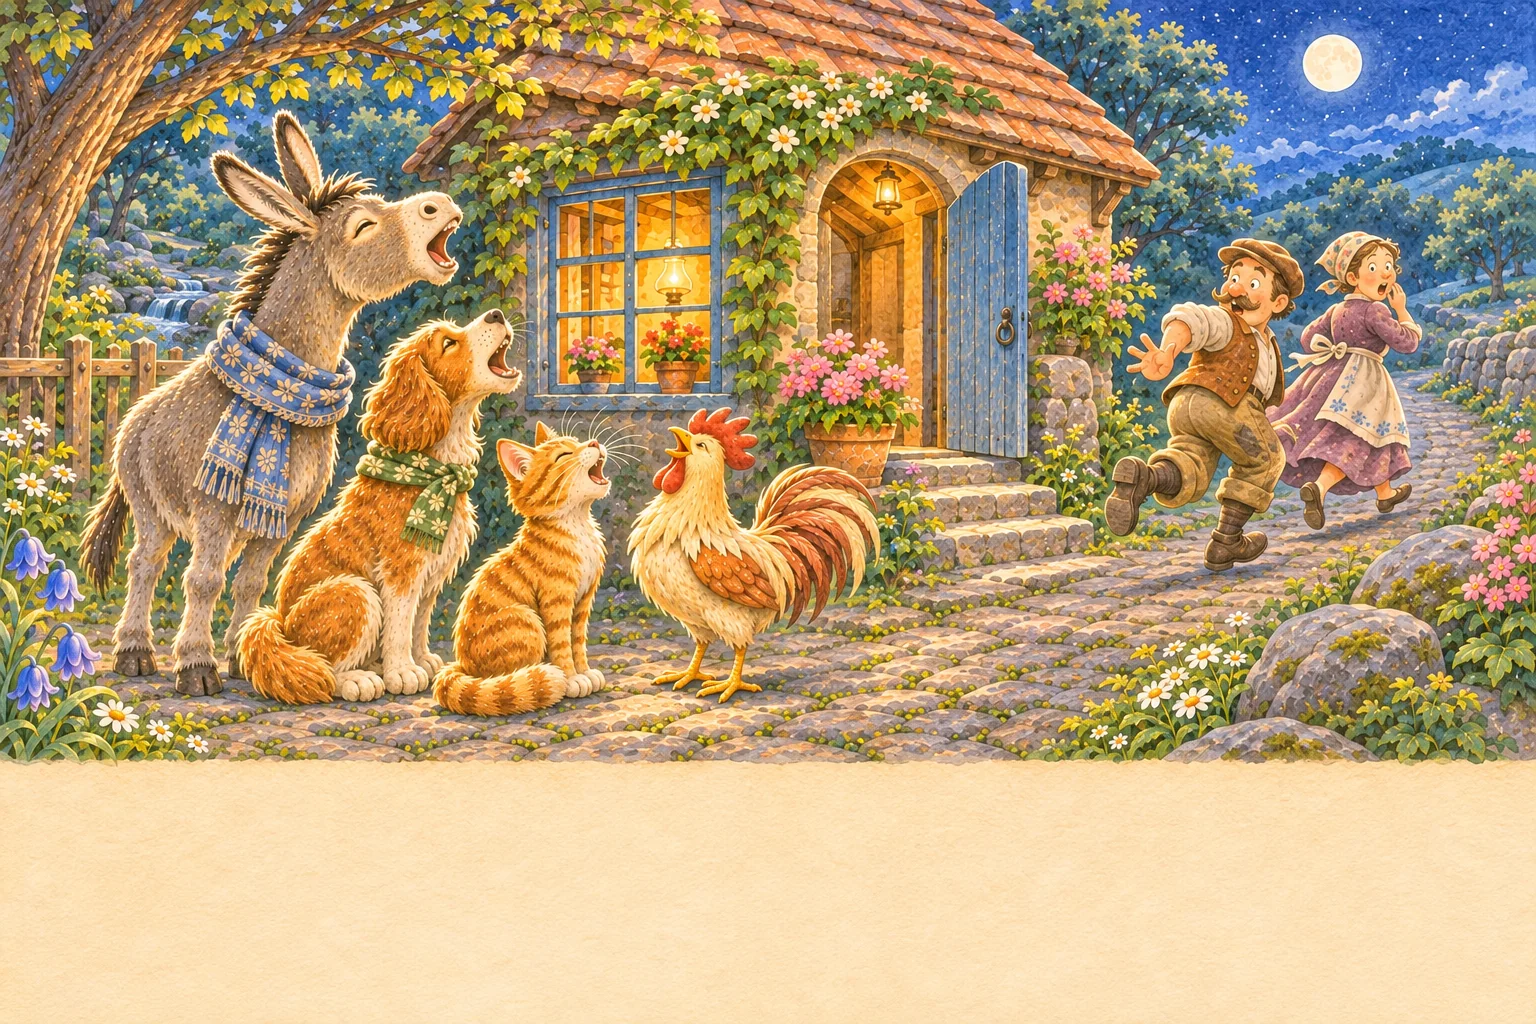
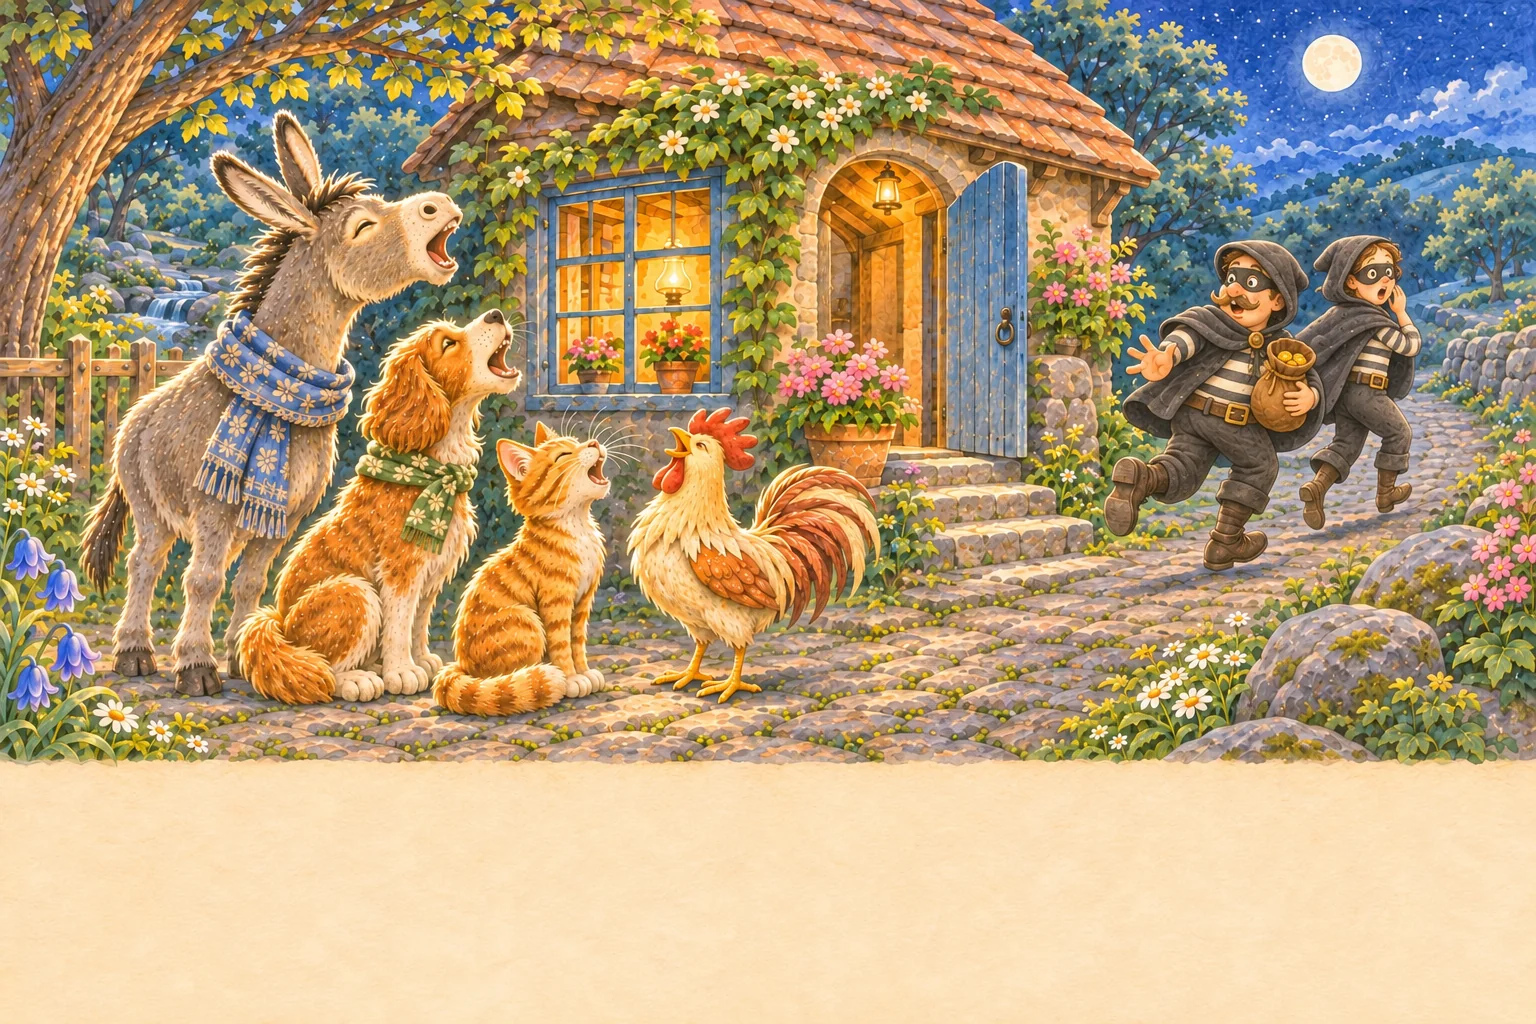
Give Bremen's robbers matching masks, cloaks and a coin sack

Changed region(s): [[0.0, 0.0, 1.0, 0.75], [0.5312, 0.0, 0.5625, 0.0312]]

diff --git a/CHANGELOG.md b/CHANGELOG.md
@@ -2,6 +2,8 @@
 
 ## [Unreleased]
 
+- Give Bremen’s two robbers matching masks, hooded cloaks and a sack of coins in both page orientations.
+
 - Keep Google libraries restricted to the Google Play Android edition when updating dependencies.
 
 - Bring the Treehouse window to life with visiting birds, a fluttering butterfly, gently swaying leaves and a flowing river.
